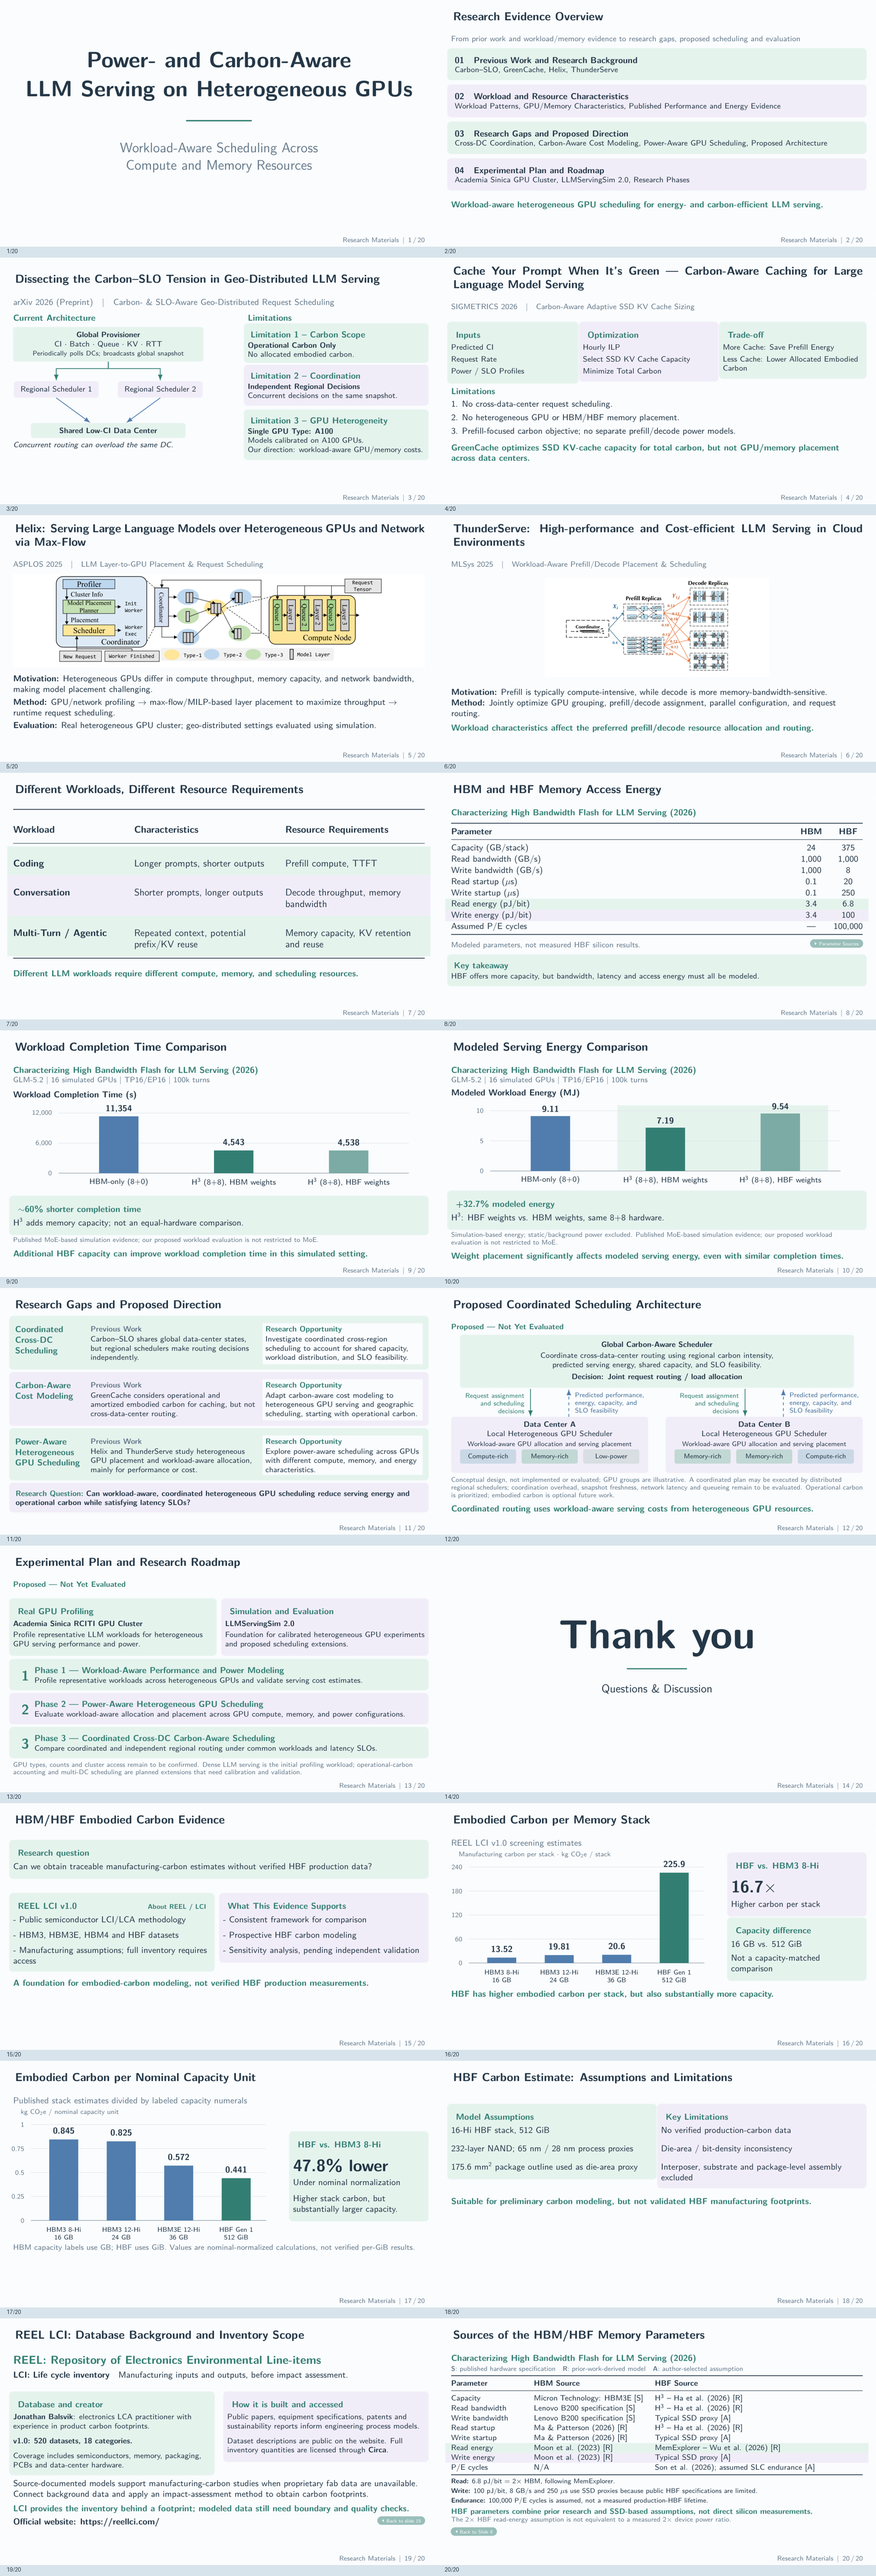
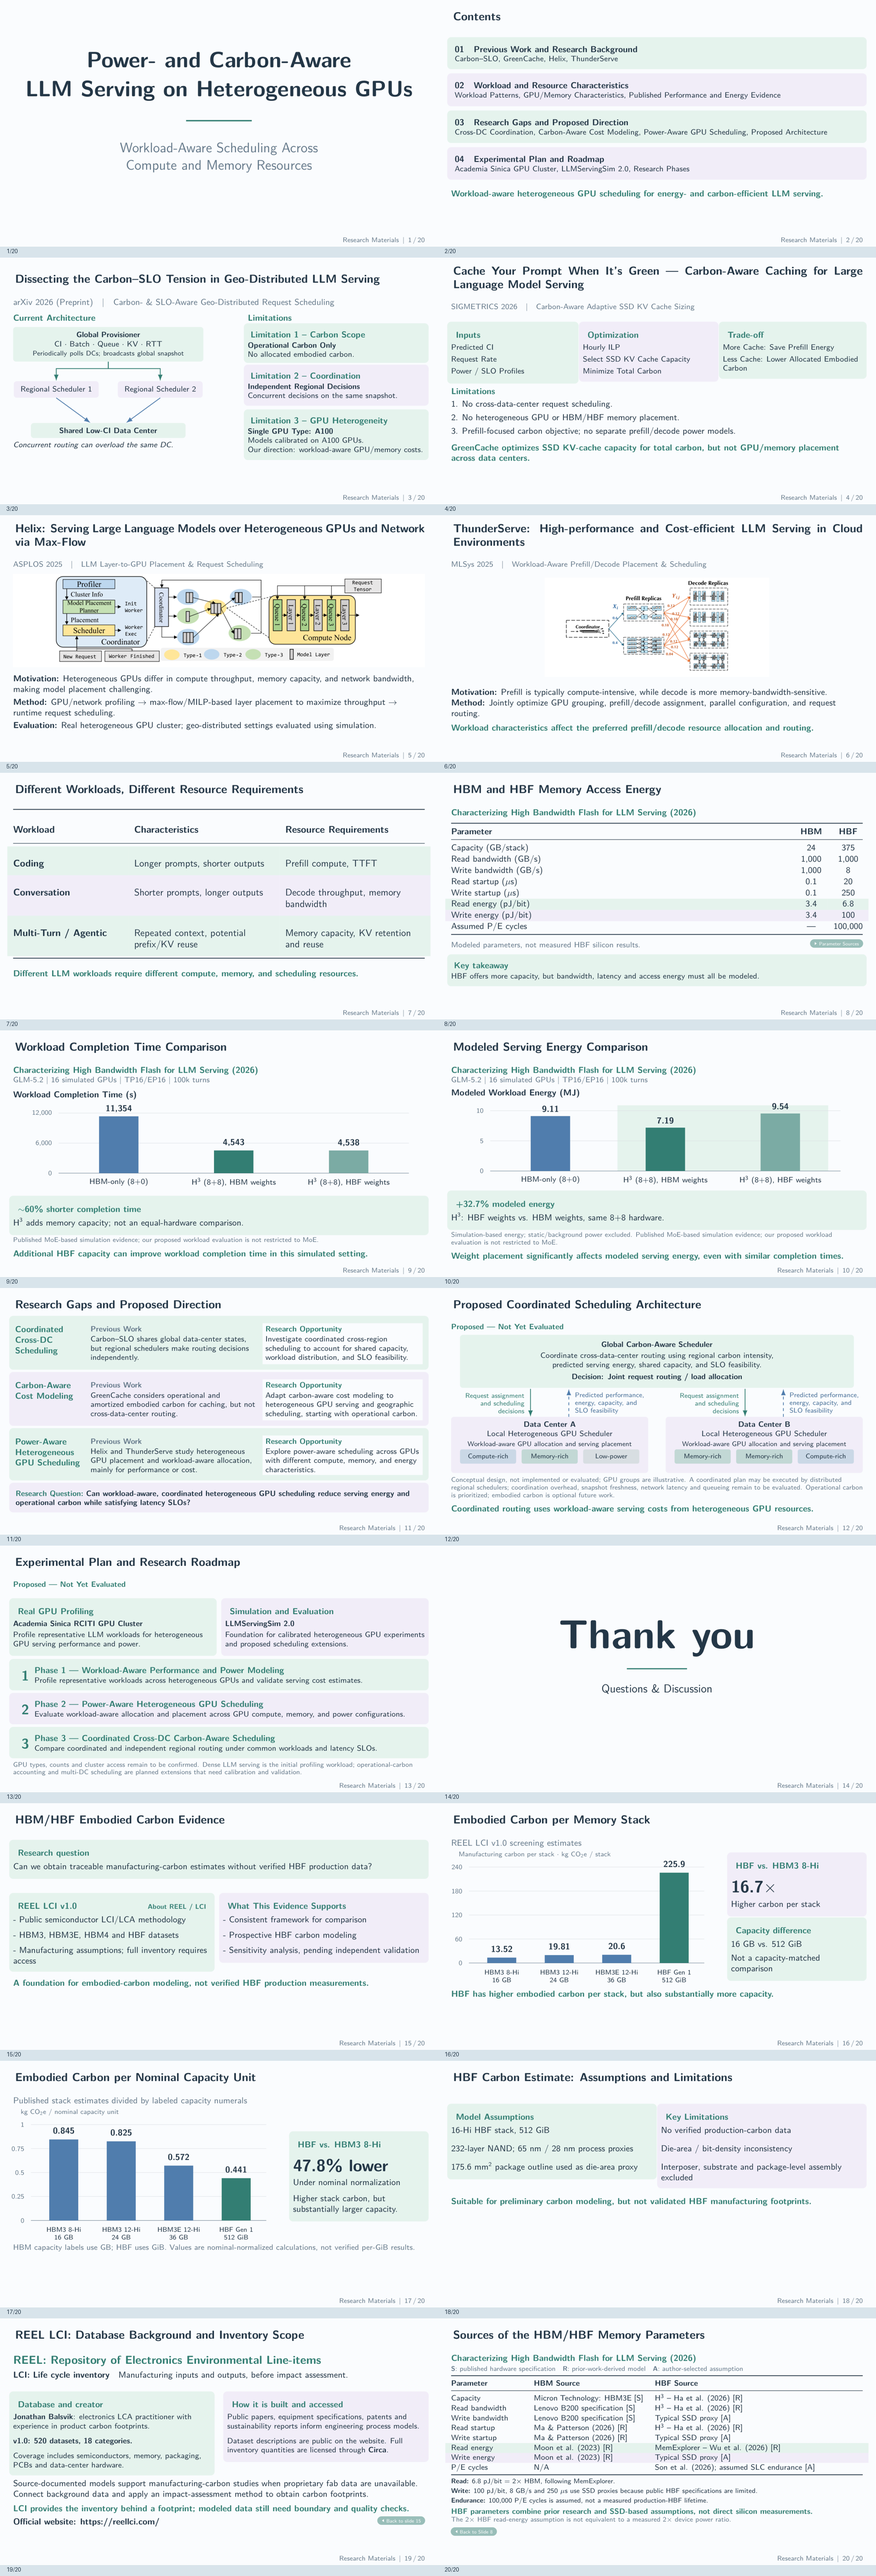
Rename slide 2 to Contents and remove its subtitle

Changed region(s): [[0.5, 0.0, 0.875, 0.0932]]

diff --git a/2026-11-18-meeting/scripts/build_research_materials.py b/2026-11-18-meeting/scripts/build_research_materials.py
@@ -182,7 +182,7 @@ def validate(doc):
                     'Carbon-Aware Cost Modeling','GreenCache considers operational and amortized embodied carbon for caching, but not cross-data-center routing.','Adapt carbon-aware cost modeling to heterogeneous GPU serving and geographic scheduling, starting with operational carbon.',
                     'Power-Aware Heterogeneous GPU Scheduling','Helix and ThunderServe study heterogeneous GPU placement and workload-aware allocation, mainly for performance or cost.','Explore power-aware scheduling across GPUs with different compute, memory, and energy characteristics.',
                     'Research Question: Can workload-aware, coordinated heterogeneous GPU scheduling reduce serving energy and operational carbon while satisfying latency SLOs?'],
-        'EINDEX': ['Research Evidence Overview','01 Previous Work and Research Background','Carbon–SLO, GreenCache, Helix, ThunderServe','02 Workload and Resource Characteristics','Workload Patterns, GPU/Memory Characteristics, Published Performance and Energy Evidence','03 Research Gaps and Proposed Direction','Cross-DC Coordination, Carbon-Aware Cost Modeling, Power-Aware GPU Scheduling, Proposed Architecture','04 Experimental Plan and Roadmap','Academia Sinica GPU Cluster, LLMServingSim 2.0, Research Phases','Workload-aware heterogeneous GPU scheduling for energy- and carbon-efficient LLM serving.'],
+        'EINDEX': ['Contents','01 Previous Work and Research Background','Carbon–SLO, GreenCache, Helix, ThunderServe','02 Workload and Resource Characteristics','Workload Patterns, GPU/Memory Characteristics, Published Performance and Energy Evidence','03 Research Gaps and Proposed Direction','Cross-DC Coordination, Carbon-Aware Cost Modeling, Power-Aware GPU Scheduling, Proposed Architecture','04 Experimental Plan and Roadmap','Academia Sinica GPU Cluster, LLMServingSim 2.0, Research Phases','Workload-aware heterogeneous GPU scheduling for energy- and carbon-efficient LLM serving.'],
         'GEOARCH': ['Proposed Coordinated Scheduling Architecture','Proposed','Not Yet Evaluated','Global Carbon-Aware Scheduler','Coordinate cross-data-center routing using regional carbon intensity, predicted serving energy, shared capacity, and SLO feasibility.','Decision: Joint request routing / load allocation',
                     'Data Center A','Data Center B','Local Heterogeneous GPU Scheduler','Workload-aware GPU allocation and serving placement','Compute-rich','Memory-rich','Low-power',
                     'Request assignment and scheduling decisions','Predicted performance, energy, capacity, and SLO feasibility',
@@ -233,7 +233,7 @@ def validate(doc):
         assert value in index, value
     assert 'Embodied Carbon' not in index
     # The index must not mention HBM/HBF in its cards or takeaway.
-    for banned in ['HBM','HBF','High Bandwidth','Flash','MoE','Previous Work and Research Gaps','Proposed Research Direction','Calibrate local serving costs','Power- and Carbon-Aware GPU Scheduling','Experimental Environment and Evaluation']:
+    for banned in ['HBM','HBF','High Bandwidth','Flash','MoE','Previous Work and Research Gaps','Proposed Research Direction','Calibrate local serving costs','Power- and Carbon-Aware GPU Scheduling','Experimental Environment and Evaluation','Research Evidence Overview','From prior work and workload/memory evidence']:
         assert banned not in index, ('Obsolete or out-of-scope index text', banned)
     for card in ['Carbon–SLO, GreenCache, Helix, ThunderServe','LLMServingSim 2.0']:
         assert card in index, ('Index card text missing', card)

diff --git a/2026-11-18-meeting/2026-11-18-Research-Materials.tex b/2026-11-18-meeting/2026-11-18-Research-Materials.tex
@@ -84,9 +84,8 @@
 {\Large\color{Muted}Workload-Aware Scheduling Across\\Compute and Memory Resources\par}
 \end{frame}
 
-\begin{frame}[t,label=EINDEX]{Research Evidence Overview}
+\begin{frame}[t,label=EINDEX]{Contents}
 \relax
-{\footnotesize\color{Muted}From prior work and workload/memory evidence to research gaps, proposed scheduling and evaluation\par}
 \vspace{.12cm}
 \indexcard{GEO}{mintbox}{01\quad Previous Work and Research Background}{\\Carbon--SLO, GreenCache, Helix, ThunderServe}
 \indexcard{WORKLOAD}{lilacbox}{02\quad Workload and Resource Characteristics}{\\Workload Patterns, GPU/Memory Characteristics, Published Performance and Energy Evidence}

diff --git a/2026-11-18-meeting/scripts/test_research_materials.py b/2026-11-18-meeting/scripts/test_research_materials.py
@@ -92,6 +92,12 @@ class NavigationContracts(unittest.TestCase):
     def test_index_mentions_hbf(self):
         self.add_text(1, 'Workload and HBM/HBF Evidence', (40, 150))
 
+    def test_index_subtitle_returns(self):
+        self.add_text(1, 'From prior work and workload/memory evidence to research gaps, proposed scheduling and evaluation', (40, 150))
+
+    def test_index_old_title_returns(self):
+        self.add_text(1, 'Research Evidence Overview', (40, 150))
+
     def test_index_missing_new_takeaway(self):
         self.remove_text(1, 'energy- and carbon-efficient LLM serving')
 

diff --git a/2026-11-18-meeting/2026-11-18-Power-Carbon-Slide-Evidence.md b/2026-11-18-meeting/2026-11-18-Power-Carbon-Slide-Evidence.md
@@ -21,7 +21,7 @@ Revised 2026-11-20 (Asia/Taipei). **20 pages: main 1–14, supplements 15–20**
 | PDF | Topic | Source / location | Evidence | Boundary |
 |---|---|---|---|---|
 | 1 | Power- and Carbon-Aware LLM Serving on Heterogeneous GPUs | User scope | Research title and subtitle only; no presenter or institution metadata | No experimental result |
-| 2 | Research Evidence Overview | C, G, L, T, H, S | Four-card index → 3, 7, 11, 13; heterogeneous GPU scheduling focus; no HBM/HBF wording in cards or takeaway | No embodied-carbon chapter; no demonstrated power or carbon result |
+| 2 | Contents | C, G, L, T, H, S | Four-card index → 3, 7, 11, 13; heterogeneous GPU scheduling focus; no HBM/HBF wording in cards or takeaway | No embodied-carbon chapter; no demonstrated power or carbon result |
 | 3 | Carbon–SLO: Shared State, Regional Decisions | C Secs. III-A, III-C, IV-A, V-C, VI; Fig. 6(c) | Shared state, independent regional scheduling, A100 profiles | Our synthesis connects local energy/SLO costs to routing |
 | 4 | GreenCache: Carbon-Aware SSD Cache Sizing | G Secs. 3.2.1, 4.1–4.2, 5.4–5.5 | SSD cache size; operational and allocated embodied carbon | No joint heterogeneous GPU/HBM/HBF placement |
 | 5 | Helix: Heterogeneous GPU Placement | L Secs. 3–5, 6.1–6.4 | Profiling, max-flow/MILP and runtime scheduling | Real single-cluster prototype; geo and high-heterogeneity simulations |

diff --git a/2026-11-18-meeting/2026-11-18-Research-Materials-Script.md b/2026-11-18-meeting/2026-11-18-Research-Materials-Script.md
@@ -6,7 +6,7 @@
 
 老師好，今天要報告的主題是異質 GPU 上的 power 與 carbon-aware LLM serving。實際的 serving 環境裡，GPU 的運算能力、記憶體容量、頻寬和功耗都不一樣，而不同 workload 對這些資源的需求也不同。所以我們想研究，怎麼依照 workload 特性在不同 GPU 之間做排程，並且在滿足延遲 SLO 的前提下，降低 serving energy 和 carbon。
 
-## 2 — Research Evidence Overview
+## 2 — Contents
 
 這份簡報分成四個部分。第一部分是 Carbon–SLO、GreenCache、Helix 和 ThunderServe 這幾篇相關研究，作為研究背景。第二部分整理不同 workload 的特性，以及已發表的 GPU 記憶體效能與能量證據。第三部分是從這些文獻歸納出的研究缺口和我們提出的方向，包含協調式排程架構。最後是實驗規劃與研究路線。每張卡片都可以直接點進去對應的頁面。
 

diff --git a/2026-11-18-meeting/2026-11-18-Research-Materials-Page-Map.md b/2026-11-18-meeting/2026-11-18-Research-Materials-Page-Map.md
@@ -7,7 +7,7 @@ Exactly **20 PDF pages: 14 main + 6 supplementary**. Physical page and footer nu
 | PDF / footer | Label | Previous page (22-page deck) | Topic | Action |
 |---|---|---|---|---|
 | 1 | `COVER` | 1 | Power- and Carbon-Aware LLM Serving on Heterogeneous GPUs (title and subtitle only) | Preserved |
-| 2 | `EINDEX` | 2 | Research Evidence Overview | Navigation updated |
+| 2 | `EINDEX` | 2 | Contents (agenda with four index cards) | Navigation updated; subtitle removed |
 | 3 | `GEO` | 3 | Carbon–SLO: Shared State, Regional Decisions | Preserved |
 | 4 | `RELATED` | 4 | GreenCache: Carbon-Aware SSD Cache Sizing | Preserved |
 | 5 | `HELIX` | 5 | Helix: Heterogeneous GPU Placement | Preserved |
